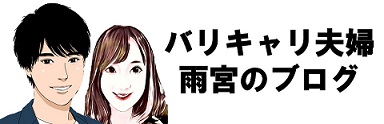
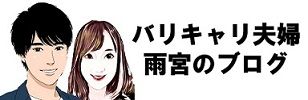
header

diff --git a/src/components/header.js b/src/components/header.js
@@ -5,9 +5,9 @@ import { Navbar, Nav, NavItem } from "react-bootstrap";
 import coupleImg from "../images/coupleheader2.jpg"
 
 const Header = ({ siteTitle }) => (
-  <Navbar bg="light" variant="light" expand="lg">
+  <Navbar bg="light" variant="light" expand="lg" style={{maxWidth:`960px`}}>
     <Navbar.Brand as={Link} href="/">
-      <img src={coupleImg} style={{maxHeight:'640px',maxWidth:'320px', marginBottom:`2rem`}} /> 
+      <img src={coupleImg} style={{}} /> 
     </Navbar.Brand>
     <Navbar.Toggle aria-controls="basic-navbar-nav" />
     <Navbar.Collapse id="basic-navbar-nav">
